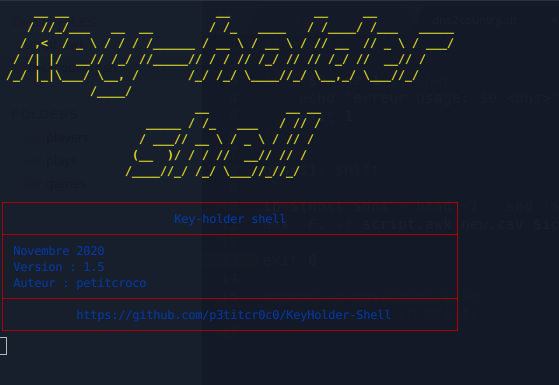
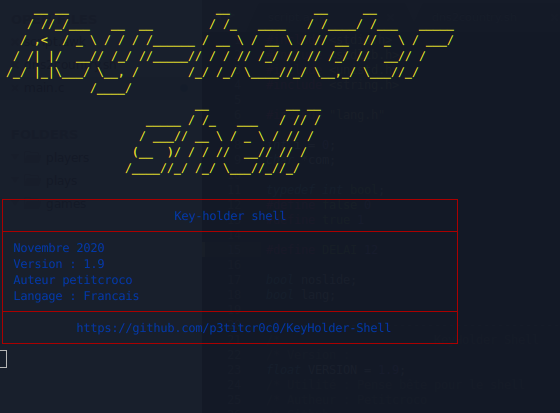
ajout

Changed region(s): [[0.0, 0.2494, 0.8211, 0.8727], [0.0, 0.0312, 0.8211, 0.2805]]

diff --git a/README.md b/README.md
@@ -23,6 +23,8 @@ chmod main.c -o execute
 ./execute
 #if you want the english version : just add -en or -EN
 ./execute -en
+#Si vous voulez passer la page de garde / skip the start : add -noslide
+./execute -noslide
 ```
 ## Chapitres
 
@@ -49,6 +51,8 @@ chmod main.c -o execute
 
 ![Alt text](https://raw.githubusercontent.com/p3titcr0c0/KeyHolder-Shell/main/img/slide.png "Page initial")
 ![Alt text](https://raw.githubusercontent.com/p3titcr0c0/KeyHolder-Shell/main/img/chapters.png "Les chapitres")
+### English version of chapters
+![Alt text](https://raw.githubusercontent.com/p3titcr0c0/KeyHolder-Shell/main/img/chaptersEN.png "Chapters")
 
 ## License
 [MIT](https://choosealicense.com/licenses/mit/)
